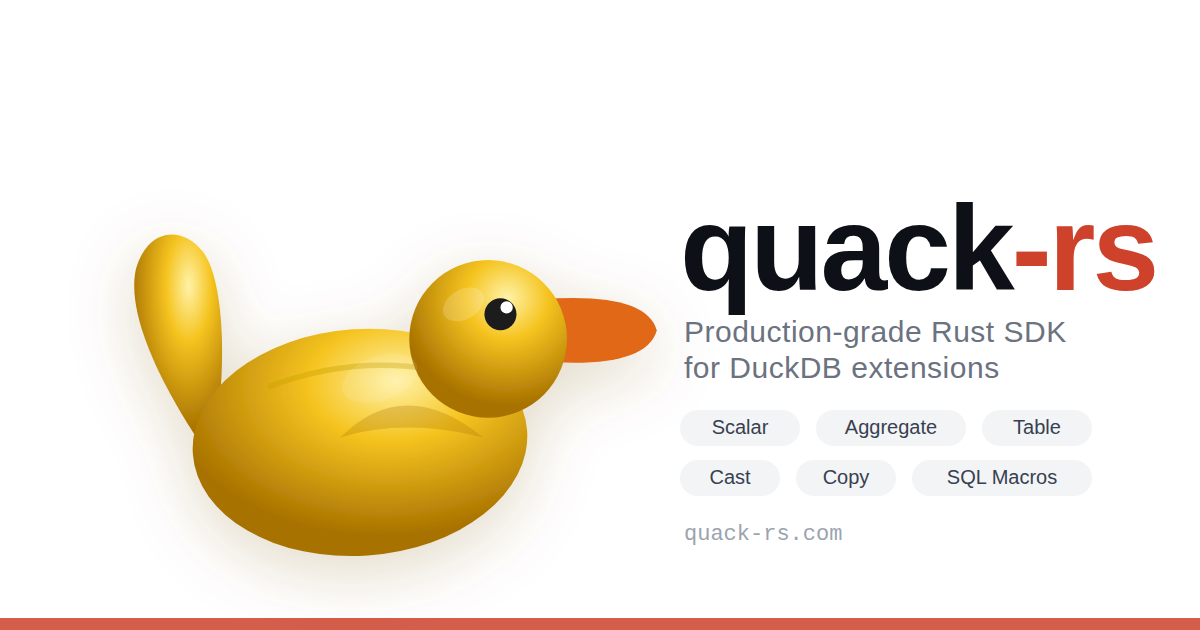
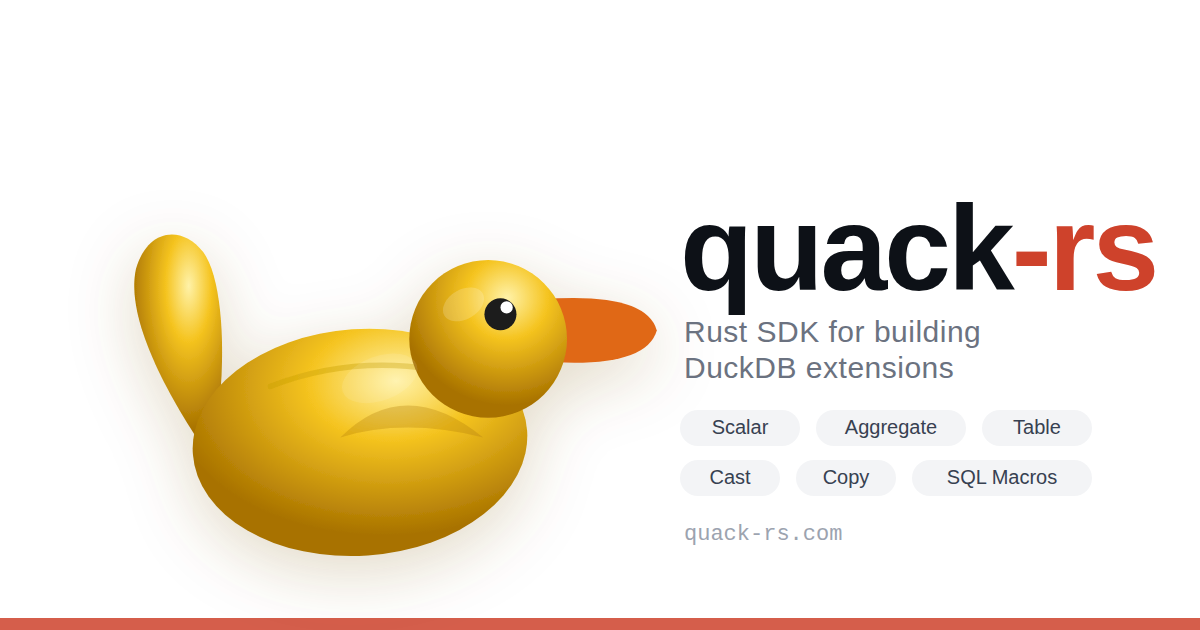
Replace "production-grade" claims with a factual status statement
The crate description, README, crate docs, book head tags, social-preview
image and logo called quack-rs "production-grade" (and the logo "FAST"),
and the FAQ answered "Is quack-rs production-ready?" with "Yes". None of
that was backed by evidence, and this release's audits found serious
defects, including one (aggregates returning wrong results in default
release builds) in unreleased code.

- Cargo.toml / CITATION.cff / JSON-LD: "Rust SDK for building DuckDB
  loadable extensions on the DuckDB C Extension API".
- README: new Status section; the FAQ answer is rewritten to match. Both
  state the record: pre-1.0 API changes, the 24 defects fixed in 0.16.0
  (two heap-corruption paths) and the 0.18.0 audits' findings (AUDIT.md),
  DuckDB's own limits, and what CI checks (verified against ci.yml:
  asan, extension-load 1.4.4/1.5.0/1.5.5/latest, wasm32, three OSes).
- README overclaims removed: "removing every known FFI pitfall",
  "eliminates every rough edge", "any Rust developer can ... ship a
  production-quality extension"; "Each fix has a regression test" now
  says "where one could be written", as the CHANGELOG does.
- Logo tagline DUCKDB · RUST · SDK; og-image tagline "Rust SDK for
  building DuckDB extensions"; both PNGs re-rendered and inspected.
- docs/E2E_DOGFOOD_REPORT.md (0.6.0, historical) keeps its text; its dated
  note now says its "production-grade" verdict is superseded.

Claude-Session: https://claude.ai/code/session_015ig9zJrZfRYtogK9vYUN3Y

Changed region(s): [[0.555, 0.5127, 0.8942, 0.6032]]

diff --git a/src/lib.rs b/src/lib.rs
@@ -5,7 +5,7 @@
 
 //! # quack-rs
 //!
-//! A production-grade Rust SDK for building `DuckDB` loadable extensions.
+//! A Rust SDK for building `DuckDB` loadable extensions on the `DuckDB` C Extension API.
 //!
 //! ## Overview
 //!
@@ -16,7 +16,8 @@
 //! - Type-safe builders for registering aggregate functions ([`aggregate`])
 //! - Safe vector reading and writing helpers ([`vector`])
 //! - A generic [`FfiState<T>`][aggregate::state::FfiState] that eliminates raw pointer management
-//! - Documented solutions to every known `DuckDB` Rust FFI pitfall
+//! - Documentation of every known `DuckDB` Rust FFI pitfall, with API designs that
+//!   prevent most of them
 //!
 //! ## Quick Start
 //!

diff --git a/assets/logos/gen_logos_v2.py b/assets/logos/gen_logos_v2.py
@@ -167,7 +167,7 @@ def logo1():
   <!-- Tagline: left-aligned to wordmark, refined spacing -->
   <text x="230" y="151"
         font-family="{FONT}" font-size="16" font-weight="400"
-        letter-spacing="1.8" fill="{TAG_DK}">DUCKDB · RUST · FAST</text>
+        letter-spacing="1.8" fill="{TAG_DK}">DUCKDB · RUST · SDK</text>
 </svg>"""
     _save(svg, "logo1-dark-elegant")
 

diff --git a/README.md b/README.md
@@ -13,9 +13,9 @@
   </p>
 </div>
 
-**The Rust SDK for building DuckDB loadable extensions — no C, no C++, no glue code.**
+**A Rust SDK for building DuckDB loadable extensions — no C, no C++, no glue code.**
 
-`quack-rs` provides safe, production-grade wrappers for the [DuckDB C Extension API](https://duckdb.org/community_extensions/development), removing every known FFI pitfall so you can focus entirely on writing extension logic in pure Rust.
+`quack-rs` provides safe Rust wrappers for the [DuckDB C Extension API](https://duckdb.org/community_extensions/development) and guards against the FFI pitfalls documented in [`LESSONS.md`](./LESSONS.md), so you can write extension logic in Rust. It is pre-1.0: see [Status](#status) for what that means and what its audits have found.
 
 ---
 
@@ -23,6 +23,7 @@
 
 - [Why quack-rs?](#why-quack-rs)
 - [What quack-rs Solves](#what-quack-rs-solves)
+- [Status](#status)
 - [Quick Start](#quick-start)
   - [1. Add the dependency](#1-add-the-dependency)
   - [2. Write your extension](#2-write-your-extension)
@@ -57,7 +58,7 @@ The [DuckDB community extensions FAQ](https://duckdb.org/community_extensions/fa
 > pure Rust codebases.*
 
 The DuckDB C Extension API (available since v1.1) changes this. `quack-rs` wraps that API
-and eliminates every rough edge, so you write **zero lines of C or C++**.
+so that an extension needs **no C or C++** of its own.
 
 ### What extension authors face without quack-rs
 
@@ -86,7 +87,7 @@ and eliminates every rough edge, so you write **zero lines of C or C++**.
 
 ## What quack-rs Solves
 
-Building a DuckDB extension in Rust — from project setup to community submission — requires navigating undocumented C API contracts, FFI memory rules, and data-encoding specifics found only in DuckDB's source code, which surface as silent corruption, process aborts, or unexplained CI rejections rather than compiler errors. `quack-rs` eliminates these barriers systematically across the complete extension lifecycle — scaffolding, function registration, type-safe data access, aggregate testing, metadata validation, and community submission readiness — with every abstraction backed by a documented, reproducible pitfall in [`LESSONS.md`](./LESSONS.md), making correct behavior automatic and incorrect behavior a compile-time error wherever the type system permits. The result is that any Rust developer can build, test, and ship a production-quality DuckDB extension without prior knowledge of DuckDB internals, covering every extension type exposed by DuckDB's public C Extension API: scalar, aggregate, table, cast, copy, replacement scan, and SQL macro functions.
+Building a DuckDB extension in Rust — from project setup to community submission — requires navigating undocumented C API contracts, FFI memory rules, and data-encoding specifics found only in DuckDB's source code, which surface as silent corruption, process aborts, or unexplained CI rejections rather than compiler errors. `quack-rs` addresses these across the extension lifecycle — scaffolding, function registration, type-safe data access, aggregate testing, metadata validation and community submission — with each abstraction tied to a documented pitfall in [`LESSONS.md`](./LESSONS.md), and incorrect use made a compile-time error where the type system allows it. It covers every function kind DuckDB's C Extension API can register: scalar, aggregate, table, cast, copy and replacement scan, plus SQL macros.
 
 `quack-rs` encapsulates **31 documented FFI pitfalls** — hard-won knowledge from building
 real DuckDB extensions in Rust:
@@ -131,6 +132,31 @@ P12 duckdb_client_context_get_config_option aborts on a missing setting (debug b
 See [`LESSONS.md`](./LESSONS.md) for full analysis of each pitfall.
 
 ---
+
+## Status
+
+`quack-rs` is pre-1.0 (0.18.0). Judge it against your own requirements; the
+record so far:
+
+- **The API still changes.** A minor release before 1.0 can break it; each lists
+  its breaking changes and migration notes in [`CHANGELOG.md`](./CHANGELOG.md).
+- **Audits keep finding real defects.** The review released as 0.16.0 fixed 24
+  defects in earlier releases, including two heap-corruption paths. The 0.18.0
+  audits fixed further soundness holes in the safe API, process aborts and wrong
+  answers, and found a serious defect in unreleased code before publication:
+  aggregate functions returned wrong results in release builds with Cargo's
+  default profile. [`AUDIT.md`](./AUDIT.md) records each audit, what it found,
+  and whether each fix was reproduced against a real DuckDB or derived from
+  DuckDB's source.
+- **Some limits are DuckDB's.** Defects in DuckDB's C API that quack-rs can only
+  document or work around are listed under [Known Limitations](#known-limitations).
+- **What CI checks.** Every pull request runs the full test suite against a real
+  DuckDB on Linux, macOS and Windows, the unit tests on wasm32, AddressSanitizer,
+  and a load test of a built extension into DuckDB 1.4.4, 1.5.0, 1.5.5 and the
+  latest release.
+
+If you ship an extension built on it, test it end to end against every DuckDB
+release you support.
 
 ## Quick Start
 
@@ -989,7 +1015,7 @@ See [`CHANGELOG.md`](./CHANGELOG.md) for the full version history.
 
 **v0.18.0** (2026-09-30) — Fixes from four further production-readiness audits
 (`AUDIT.md`, sections 7–10): soundness holes in the safe API, process aborts, wrong
-answers and leaks. Each fix has a regression test, and each defect involving DuckDB
+answers and leaks. Each fix has a regression test where one could be written, and each defect involving DuckDB
 was reproduced against a real DuckDB or derived from its source before it was
 fixed. Breaking; see the CHANGELOG.
 

diff --git a/book/src/faq.md b/book/src/faq.md
@@ -42,11 +42,27 @@ Rust **1.86.0** or later. This is enforced in `Cargo.toml` with
 
 ### Is quack-rs production-ready?
 
-Yes. It was extracted from
-[duckdb-behavioral](https://github.com/tomtom215/duckdb-behavioral), a
-production DuckDB community extension, where the first 16 of the pitfalls it now
-documents were discovered; the rest came from later audits against DuckDB's own
-source and a running database.
+It is pre-1.0, and you should judge it against your own requirements rather than
+take a yes. What the record shows:
+
+- **The API still changes.** Minor releases before 1.0 can break it; each one lists
+  its breaking changes, with migration notes, in the [changelog](reference/changelog.md).
+- **Audits keep finding real defects.** The review released as 0.16.0 fixed 24
+  defects in earlier releases, including two heap-corruption paths. The 0.18.0 audits fixed further soundness holes,
+  process aborts and wrong answers, and found one serious defect in unreleased
+  code before it was published: aggregate functions returned wrong results in
+  release builds with Cargo's default profile. `AUDIT.md` in the repository
+  records each audit, what it found, and whether each fix was reproduced against
+  a real DuckDB or derived from DuckDB's source.
+- **Some limits are DuckDB's.** The C API has defects quack-rs can only document or
+  work around; see [Known Limitations](reference/known-limitations.md).
+
+It was extracted from
+[duckdb-behavioral](https://github.com/tomtom215/duckdb-behavioral), a DuckDB
+community extension, where the first 16 of the pitfalls it now documents were
+discovered. If you ship an extension built on it, run end-to-end tests that load
+the extension into each DuckDB release you support (see the
+[Testing Guide](testing.md)).
 
 ---
 

diff --git a/CHANGELOG.md b/CHANGELOG.md
@@ -656,6 +656,14 @@ is not grouped.
   specific description to each page and fails on a missing or duplicate
   one; the preview image is a PNG; headings are no longer rendered at half
   opacity; diagrams follow the theme; mermaid is pinned to 11.17.2.
+- The crate, README, book, logo and social-preview image no longer call
+  quack-rs "production-grade" or the logo "FAST"; neither was backed by
+  evidence, and the audits behind this release found serious defects. The
+  crates.io description is now "Rust SDK for building DuckDB loadable
+  extensions on the DuckDB C Extension API". A new README **Status** section
+  and the FAQ state what the record shows instead: pre-1.0 API churn, the
+  defects each audit found (`AUDIT.md`), DuckDB's own limits, and what CI
+  checks.
 
 #### Fourth audit
 

diff --git a/CONTRIBUTING.md b/CONTRIBUTING.md
@@ -324,7 +324,7 @@ quack-rs/
 │   ├── file_system.rs                 # File system access (`DuckDB` 1.5.0+)
 │   ├── instance_cache.rs              # Database instance cache (`DuckDB` 1.5.0+)
 │   ├── interval.rs                    # `DuckDB` `INTERVAL` type conversion utilities
-│   ├── lib.rs                         # A production-grade Rust SDK for building `DuckDB` loadable extensions
+│   ├── lib.rs                         # Crate root: module list and crate-level docs
 │   ├── prelude.rs                     # Convenience re-exports for the most commonly used `quack-rs` items
 │   ├── query.rs                       # Running SQL from inside an extension
 │   ├── secrets.rs                     # Credential handling for extensions

diff --git a/book/src/reference/changelog.md b/book/src/reference/changelog.md
@@ -659,6 +659,14 @@ is not grouped.
   specific description to each page and fails on a missing or duplicate
   one; the preview image is a PNG; headings are no longer rendered at half
   opacity; diagrams follow the theme; mermaid is pinned to 11.17.2.
+- The crate, README, book, logo and social-preview image no longer call
+  quack-rs "production-grade" or the logo "FAST"; neither was backed by
+  evidence, and the audits behind this release found serious defects. The
+  crates.io description is now "Rust SDK for building DuckDB loadable
+  extensions on the DuckDB C Extension API". A new README **Status** section
+  and the FAQ state what the record shows instead: pre-1.0 API churn, the
+  defects each audit found (`AUDIT.md`), DuckDB's own limits, and what CI
+  checks.
 
 #### Fourth audit
 

diff --git a/docs/E2E_DOGFOOD_REPORT.md b/docs/E2E_DOGFOOD_REPORT.md
@@ -12,6 +12,9 @@
 > `cargo test --all-targets --all-features` on Linux, macOS and Windows,
 > `test-bundled-prebuilt` tests against a prebuilt `libduckdb`, and the
 > `extension-load` job loads a built extension into live DuckDB CLIs.
+> Its verdict that the codebase was "production-grade" is superseded too:
+> later audits (`AUDIT.md`) found defects this review did not, including two
+> heap-corruption paths fixed in 0.16.0 and process aborts fixed in 0.18.0.
 
 ---
 
